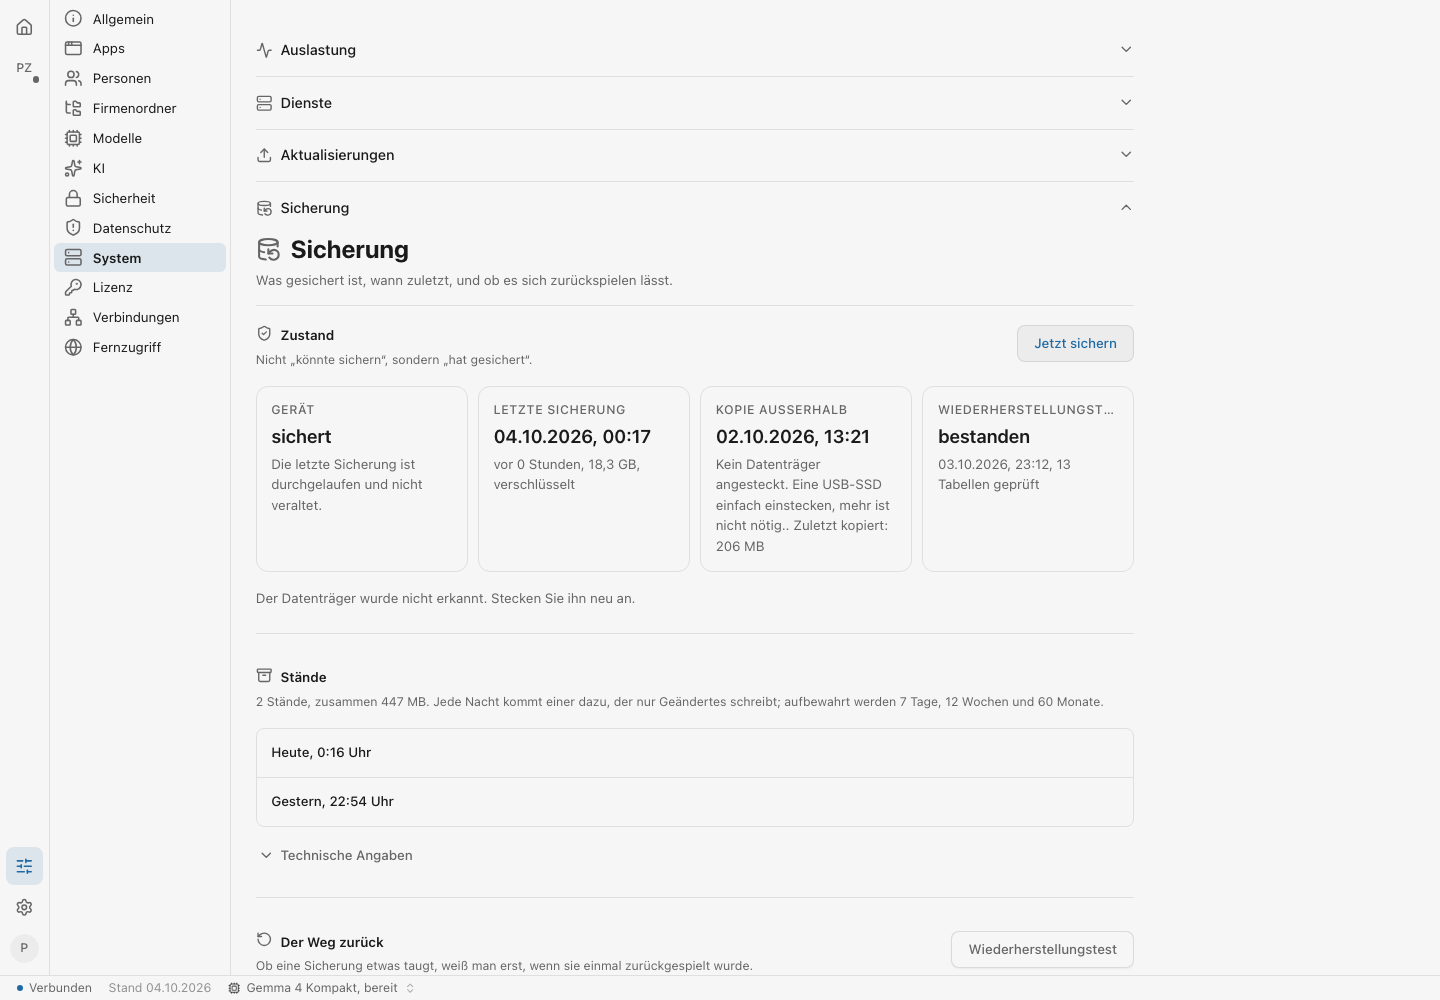
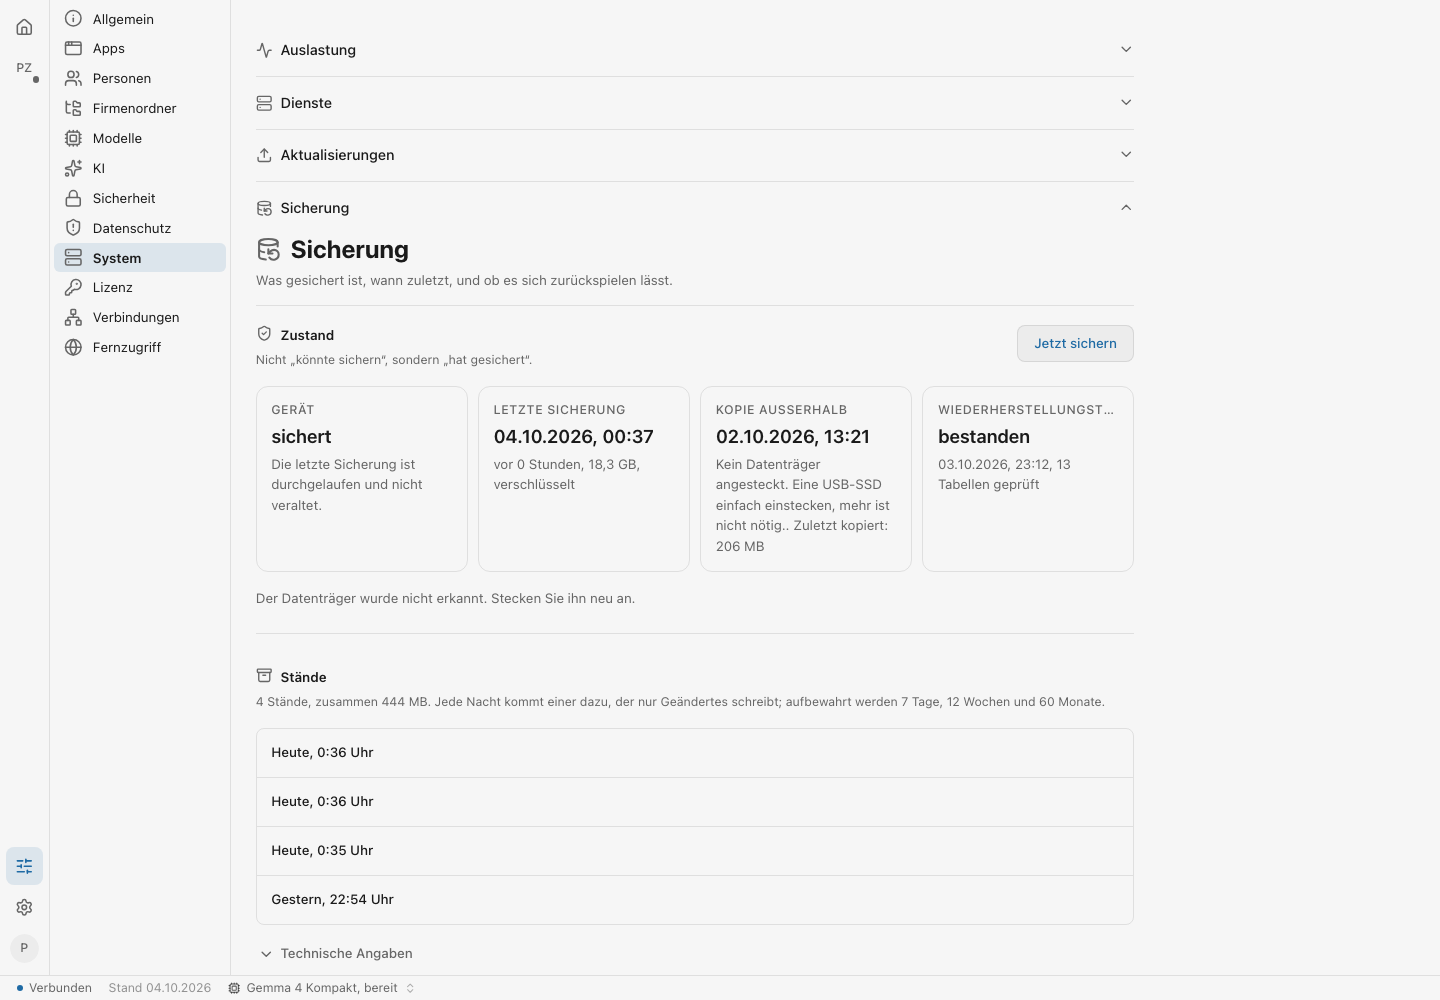
docs: Abnahme Zurückholen am Orin, Bilder; Stand in derselben Minute mit Sekunden (M5)
42 grün, 0 rot. Dazu aus den Bildern: der ausblendende Dialog zeigte keinen
Zeitpunkt mehr, zwei Stände in derselben Minute hießen gleich. Die Abnahme
merkt sich die Stände vom Anfang und legt am Ende einen frischen Stand an.

diff --git a/apps/dashboard-frontend/src/features/system/sicherung/Zurueckholen.tsx b/apps/dashboard-frontend/src/features/system/sicherung/Zurueckholen.tsx
@@ -42,7 +42,7 @@ import {
 } from '@marken';
 import { formatBytes, formatZahl } from '@/utils/formatting';
 import { TechnischeAngaben } from '../TechnischeAngaben';
-import { namenDerStaende, standInWorten, standZusatz } from './standInWorten';
+import { namenDerStaende, standInWorten, standNamen, standZusatz } from './standInWorten';
 import {
   useAppZurueckholen,
   useBereichZurueckholen,
@@ -206,6 +206,7 @@ export function Zurueckholen() {
   const [bericht, setBericht] = useState<Bericht | null>(null);
 
   const namen = useMemo(() => namenDerStaende(staende), [staende]);
+  const zeitNamen = useMemo(() => standNamen(staende), [staende]);
 
   // Was sich zurückholen lässt: jede App, die in irgendeinem Stand steht;
   // jeder Bereich, den es am Gerät noch gibt (in einen weggeworfenen kommt
@@ -242,7 +243,7 @@ export function Zurueckholen() {
       : was === 'bereich'
         ? (namen.bereiche.get(ziel) ?? ziel)
         : '';
-  const wann = stand ? standInWorten(stand.zeitpunkt) : '';
+  const wann = stand ? (zeitNamen.get(stand.id) ?? standInWorten(stand.zeitpunkt)) : '';
 
   const wechsleWas = (neu: Was) => {
     setWas(neu);
@@ -260,8 +261,9 @@ export function Zurueckholen() {
 
   const fertig = (b: Bericht) => {
     setBericht(b);
+    // Die Auswahl bleibt stehen: der Dialog blendet aus und zeigte sonst
+    // „auf den Stand von zurückgeholt“ ohne Zeitpunkt (Bild am Orin).
     schliessen();
-    setStandId('');
   };
   const vorherSatz = (v: VorherStand | null | undefined) =>
     v?.erfolg && v.zeitpunkt
@@ -511,7 +513,7 @@ export function Zurueckholen() {
                       <RadioGroupItem value={s.id} id={`stand-${s.id}`} />
                       <span className="min-w-0">
                         <span className="text-sm font-medium text-foreground">
-                          {standInWorten(s.zeitpunkt)}
+                          {zeitNamen.get(s.id) ?? standInWorten(s.zeitpunkt)}
                         </span>
                         {zusatz && (
                           <span className="block text-xs text-muted-foreground">{zusatz}</span>

diff --git a/apps/dashboard-frontend/src/features/system/sicherung/standInWorten.ts b/apps/dashboard-frontend/src/features/system/sicherung/standInWorten.ts
@@ -13,12 +13,13 @@ function tagesbeginn(d: Date): number {
   return new Date(d.getFullYear(), d.getMonth(), d.getDate()).getTime();
 }
 
-export function standInWorten(iso: string, jetzt: Date = new Date()): string {
+export function standInWorten(iso: string, jetzt: Date = new Date(), mitSekunden = false): string {
   const d = new Date(iso);
   if (Number.isNaN(d.getTime())) {
     return 'unbekannter Zeitpunkt';
   }
-  const uhr = `${d.getHours()}:${String(d.getMinutes()).padStart(2, '0')} Uhr`;
+  const zwei = (n: number) => String(n).padStart(2, '0');
+  const uhr = `${d.getHours()}:${zwei(d.getMinutes())}${mitSekunden ? `:${zwei(d.getSeconds())}` : ''} Uhr`;
   // Gerundet: zwischen zwei Mitternächten liegen bei der Zeitumstellung 23
   // oder 25 Stunden.
   const tage = Math.round((tagesbeginn(jetzt) - tagesbeginn(d)) / 86_400_000);
@@ -74,4 +75,26 @@ export function namenDerStaende(staende: Stand[]): {
       if (b.name && !bereiche.has(b.kennung)) bereiche.set(b.kennung, b.name);
   }
   return { apps, bereiche };
+}
+
+/**
+ * Die Namen einer ganzen Liste: zwei Stände in derselben Minute (von Hand
+ * gesichert, dann der Stand davor) hießen sonst gleich. Dann, und nur dann,
+ * kommen die Sekunden dazu (am Orin gesehen, 04.10.2026).
+ */
+export function standNamen(
+  staende: Pick<Stand, 'id' | 'zeitpunkt'>[],
+  jetzt: Date = new Date()
+): Map<string, string> {
+  const zahl = new Map<string, number>();
+  for (const s of staende) {
+    const n = standInWorten(s.zeitpunkt, jetzt);
+    zahl.set(n, (zahl.get(n) ?? 0) + 1);
+  }
+  return new Map(
+    staende.map(s => {
+      const n = standInWorten(s.zeitpunkt, jetzt);
+      return [s.id, (zahl.get(n) ?? 0) > 1 ? standInWorten(s.zeitpunkt, jetzt, true) : n];
+    })
+  );
 }

diff --git a/apps/dashboard-frontend/src/features/system/sicherung/Sicherung.tsx b/apps/dashboard-frontend/src/features/system/sicherung/Sicherung.tsx
@@ -58,7 +58,7 @@ import {
 } from './useSicherung';
 import { Feldgruppe, Formularseite, Leerzustand } from '@marken';
 import { Zurueckholen } from './Zurueckholen';
-import { namenDerStaende, standInWorten, standZusatz } from './standInWorten';
+import { namenDerStaende, standNamen, standZusatz } from './standInWorten';
 
 /** So viele Stände stehen in „Stände“ zuerst da. */
 const STAENDE_ZUERST = 10;
@@ -130,6 +130,7 @@ export function Sicherung() {
   const [alleStaende, setAlleStaende] = useState(false);
   const [technikOffen, setTechnikOffen] = useState(false);
   const namen = useMemo(() => namenDerStaende(staende), [staende]);
+  const zeitNamen = useMemo(() => standNamen(staende), [staende]);
   const sichern = useJetztSichern();
   const test = useWiederherstellungstest();
   const [sicherungsMeldung, setSicherungsMeldung] = useState<Meldung | null>(null);
@@ -401,7 +402,7 @@ export function Sicherung() {
                         className="flex flex-wrap items-baseline gap-x-3 gap-y-1 border-b border-border p-ui-3 last:border-b-0"
                       >
                         <span className="text-sm font-medium text-foreground">
-                          {standInWorten(s.zeitpunkt)}
+                          {zeitNamen.get(s.id)}
                         </span>
                         {zusatz && <span className="text-xs text-muted-foreground">{zusatz}</span>}
                       </li>

diff --git a/apps/dashboard-frontend/src/features/system/__tests__/standInWorten.test.ts b/apps/dashboard-frontend/src/features/system/__tests__/standInWorten.test.ts
@@ -3,7 +3,7 @@
  * nie nach Kennung, und so, wie man es am Telefon sagt.
  */
 import { describe, it, expect } from 'vitest';
-import { standInWorten, standZusatz } from '../sicherung/standInWorten';
+import { standInWorten, standNamen, standZusatz } from '../sicherung/standInWorten';
 
 const JETZT = new Date(2026, 9, 4, 23, 50); // Sonntag, 4. Oktober 2026, 23:50 Ortszeit
 
@@ -35,5 +35,21 @@ describe('standZusatz', () => {
     expect(standZusatz({ vorher: true, fuer: { art: 'geraet', id: null } }, namen)).toBe(
       'vor dem Zurückholen des ganzen Geräts'
     );
+  });
+});
+
+describe('standNamen', () => {
+  it('nimmt die Sekunden nur dazu, wenn zwei Staende in derselben Minute liegen', () => {
+    const namen = standNamen(
+      [
+        { id: 'a', zeitpunkt: new Date(2026, 9, 4, 0, 36, 5).toISOString() },
+        { id: 'b', zeitpunkt: new Date(2026, 9, 4, 0, 36, 41).toISOString() },
+        { id: 'c', zeitpunkt: new Date(2026, 9, 3, 2, 0, 9).toISOString() },
+      ],
+      JETZT
+    );
+    expect(namen.get('a')).toBe('Heute, 0:36:05 Uhr');
+    expect(namen.get('b')).toBe('Heute, 0:36:41 Uhr');
+    expect(namen.get('c')).toBe('Gestern, 2:00 Uhr');
   });
 });

diff --git a/docs/plans/audits/2026-10-04-sicherung-zurueckholen/BERICHT.md b/docs/plans/audits/2026-10-04-sicherung-zurueckholen/BERICHT.md
@@ -1,0 +1,66 @@
+# Abnahme: einen früheren Stand zurückholen (M5)
+
+Auftrag `sicherung-zurueckholen`, am Orin gemessen in der Nacht vom 03. auf den
+04.10.2026, nach #867 (Zurückholen) und #868 (Aufbewahrung). Skript:
+`scripts/test/sicherung-zurueckholen-abnahme.sh` mit
+`sicherung-zurueckholen-bilder.mjs`, angemeldet als `probe-admin`.
+
+## Ergebnis
+
+**Lauf 2: 42 grün, 0 rot.** Browser-Teil 22 grün, 0 rot.
+
+| Was                                                                                    | Ergebnis                                                                                                                                                                                                                                         |
+| -------------------------------------------------------------------------------------- | ------------------------------------------------------------------------------------------------------------------------------------------------------------------------------------------------------------------------------------------------ |
+| Ort                                                                                    | Verwaltung → System → Sicherung → Zurückholen, genau einmal auf der Seite (den Bereich „Daten“ gibt es noch nicht)                                                                                                                               |
+| Stände in Worten                                                                       | „Heute, 0:36 Uhr“, „Gestern, 22:54 Uhr“; keine Kennung in Liste und Auswahl                                                                                                                                                                      |
+| ohne Passwort / falsches Passwort                                                      | 400 / 403 `PASSWORT_FALSCH`, Satz im Dialog; nichts angefasst (5 Einträge, kein neuer Stand)                                                                                                                                                     |
+| (a) App `probe-rueck-1004` auf Stand A                                                 | 3 Einträge statt 5, Paket `server.js` Byte für Byte wie in A                                                                                                                                                                                     |
+| (b) Bereich `probe-rueck-1004` auf Stand A, über WebDAV gelesen                        | `angebot.txt` wieder A, `unterordner/notiz.txt` wieder da, `neu-nach-a.txt` weg; der Dateidienst lief durch                                                                                                                                      |
+| Stand davor                                                                            | je einer mit `vorher` und `fuer` (`app:probe-rueck-1004`, `bereich:probe-rueck-1004`)                                                                                                                                                            |
+| rückgängig mit dem Stand davor                                                         | Bereich und App wieder wie in B (5 Einträge, Paket B, Dateien B)                                                                                                                                                                                 |
+| (c) ganzes Gerät, Wegwerf-Umgebung (eigenes Postgres, eigener Schlüssel, eigenes Netz) | auf A: `personen=Anna app=A paket=A firma=A neu=nein`; mit dem Stand davor zurück: `Anna,Bruno A,B B B ja`                                                                                                                                       |
+| (c) in der Oberfläche                                                                  | Weg bis in den Dialog (Wort eingetippt, ohne Passwort gesperrt), abgebrochen; kein Aufruf an `/api/backup/wiederherstellung`                                                                                                                     |
+| 390 px                                                                                 | nichts läuft seitlich über                                                                                                                                                                                                                       |
+| Aufräumen                                                                              | Recht, Bereich, App (samt Datenbanken), Schlüssel weg; kein Ordner `probe-rueck-1004` unter `/arasul/apps` im Container `dashboard-backend`, keiner in der Ablage; die 6 eigenen Stände einzeln entfernt (`restic forget`), Wegwerf-Umgebung weg |
+
+## Zahlen
+
+|                                                             |             |
+| ----------------------------------------------------------- | ----------- |
+| Jetzt sichern (Stand A / B)                                 | 10 s / 9 s  |
+| App zurück auf A, mit Stand davor (Klick bis Bericht)       | 16 s        |
+| Bereich zurück auf A, mit Stand davor                       | 12 s        |
+| rückgängig: Bereich / App                                   | 14 s / 18 s |
+| Stand davor schrieb neu                                     | 1,9 MB      |
+| ganzes Gerät in der Wegwerf-Umgebung (Stand davor + zurück) | 9 s         |
+
+## Funde
+
+1. **Lauf 1 (31 grün, 11 rot): Stand A fiel durch Stand B.** Die Aufbewahrung
+   7/12/60 behielt je Tag nur den neuesten Stand; mit A fiel auch der Stand vom
+   Dienststart (0:16). Fix in #868: die fünf neuesten Stände bleiben immer
+   (`--keep-last 5`). `--keep-within 2d` behielt in restic 0.16.4 jeden Stand
+   der Reihe und wurde verworfen.
+2. **Fremde Stände desselben Tages:** auch mit #868 verdrängen die sechs
+   Stände eines Laufs den Stand vom Dienststart (0:35, `43cf0b29`) aus „die
+   fünf neuesten“ und „einer je Tag“. Danach stand am Orin nur noch
+   `8cb709d5` (03.10., 22:54); sofort von Hand gesichert: `7749e3ab` (0:40).
+   Die Abnahme merkt sich jetzt die Stände vom Anfang, sagt, welcher fiel, und
+   legt am Ende selbst einen frischen Stand an.
+3. **Bilder:** `bereich-dialog.png` und `geraet-dialog.png` zeigen den Dialog
+   beim Ein- bzw. Ausblenden, und nach dem Zurückholen zeigte der
+   ausblendende Dialog „auf den Stand von zurückgeholt“ ohne Zeitpunkt. Zwei
+   Stände in derselben Minute hießen gleich. Behoben mit diesem PR: Auswahl
+   bleibt bis zum Ende, Sekunden nur bei Gleichstand, das Bildskript wartet
+   die Animation ab.
+4. **Erster Lauf (c):** die Wegwerf-Datenbank kam nicht zustande
+   (`CREATE DATABASE` in einer Transaktion); ein Fehler des Skripts, in #868
+   behoben.
+
+## Bilder
+
+|                                     |                                                 |
+| ----------------------------------- | ----------------------------------------------- |
+| ![Stände](staende.png)              | ![Falsches Passwort](app-falsches-passwort.png) |
+| ![App: Bericht](app-bericht.png)    | ![Bereich: Bericht](bereich-bericht.png)        |
+| ![Gerät: Dialog](geraet-dialog.png) | ![390 px](schmal.png)                           |
